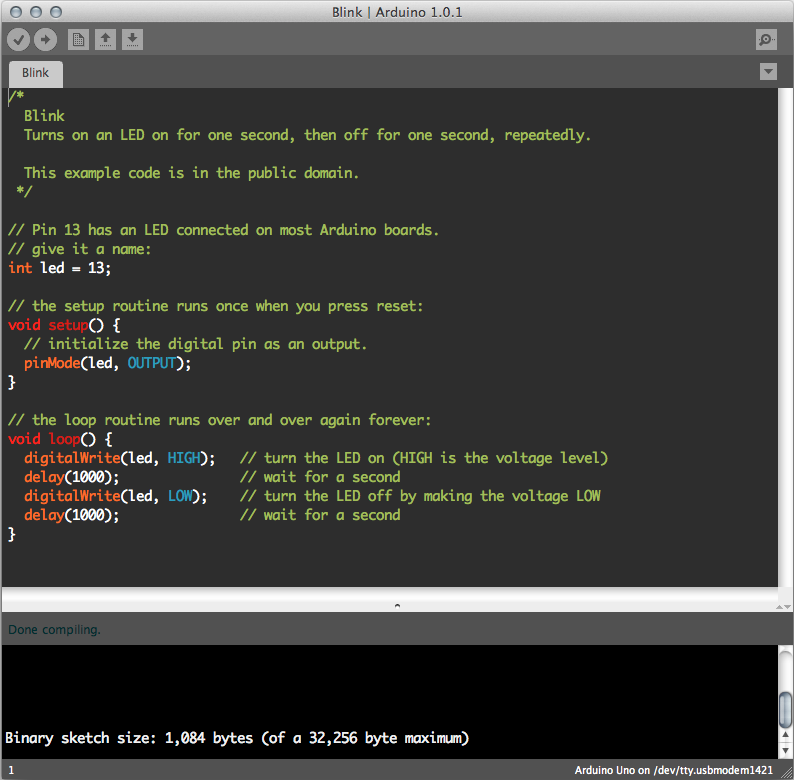
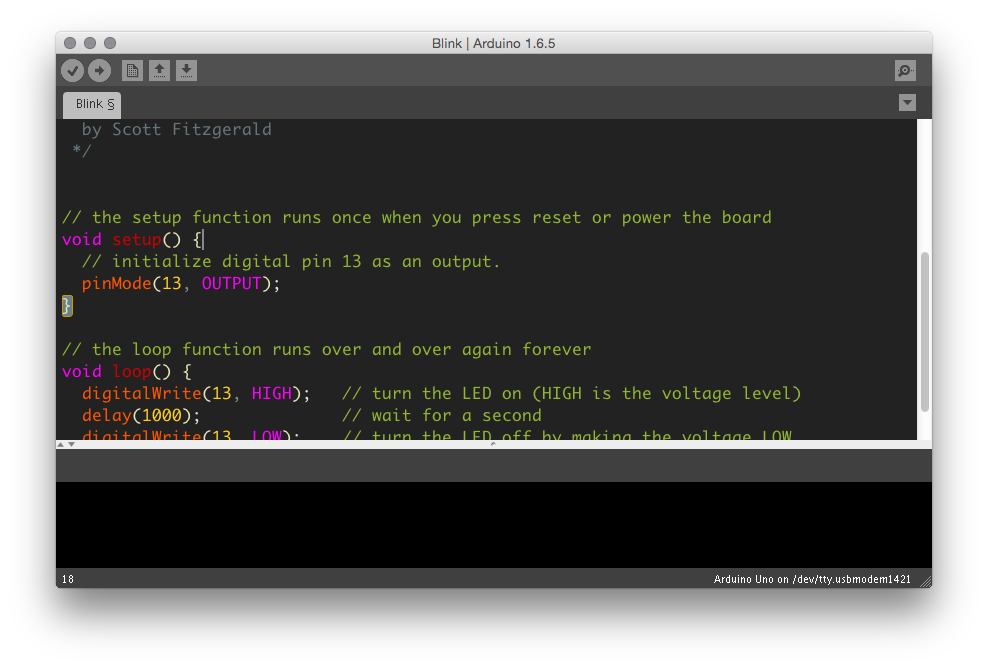
Added new screenshot

diff --git a/README.md b/README.md
@@ -1,3 +1,5 @@
+![screenshot.png]('screenshot')
+
 Dark Arduino Theme
 ================
 
